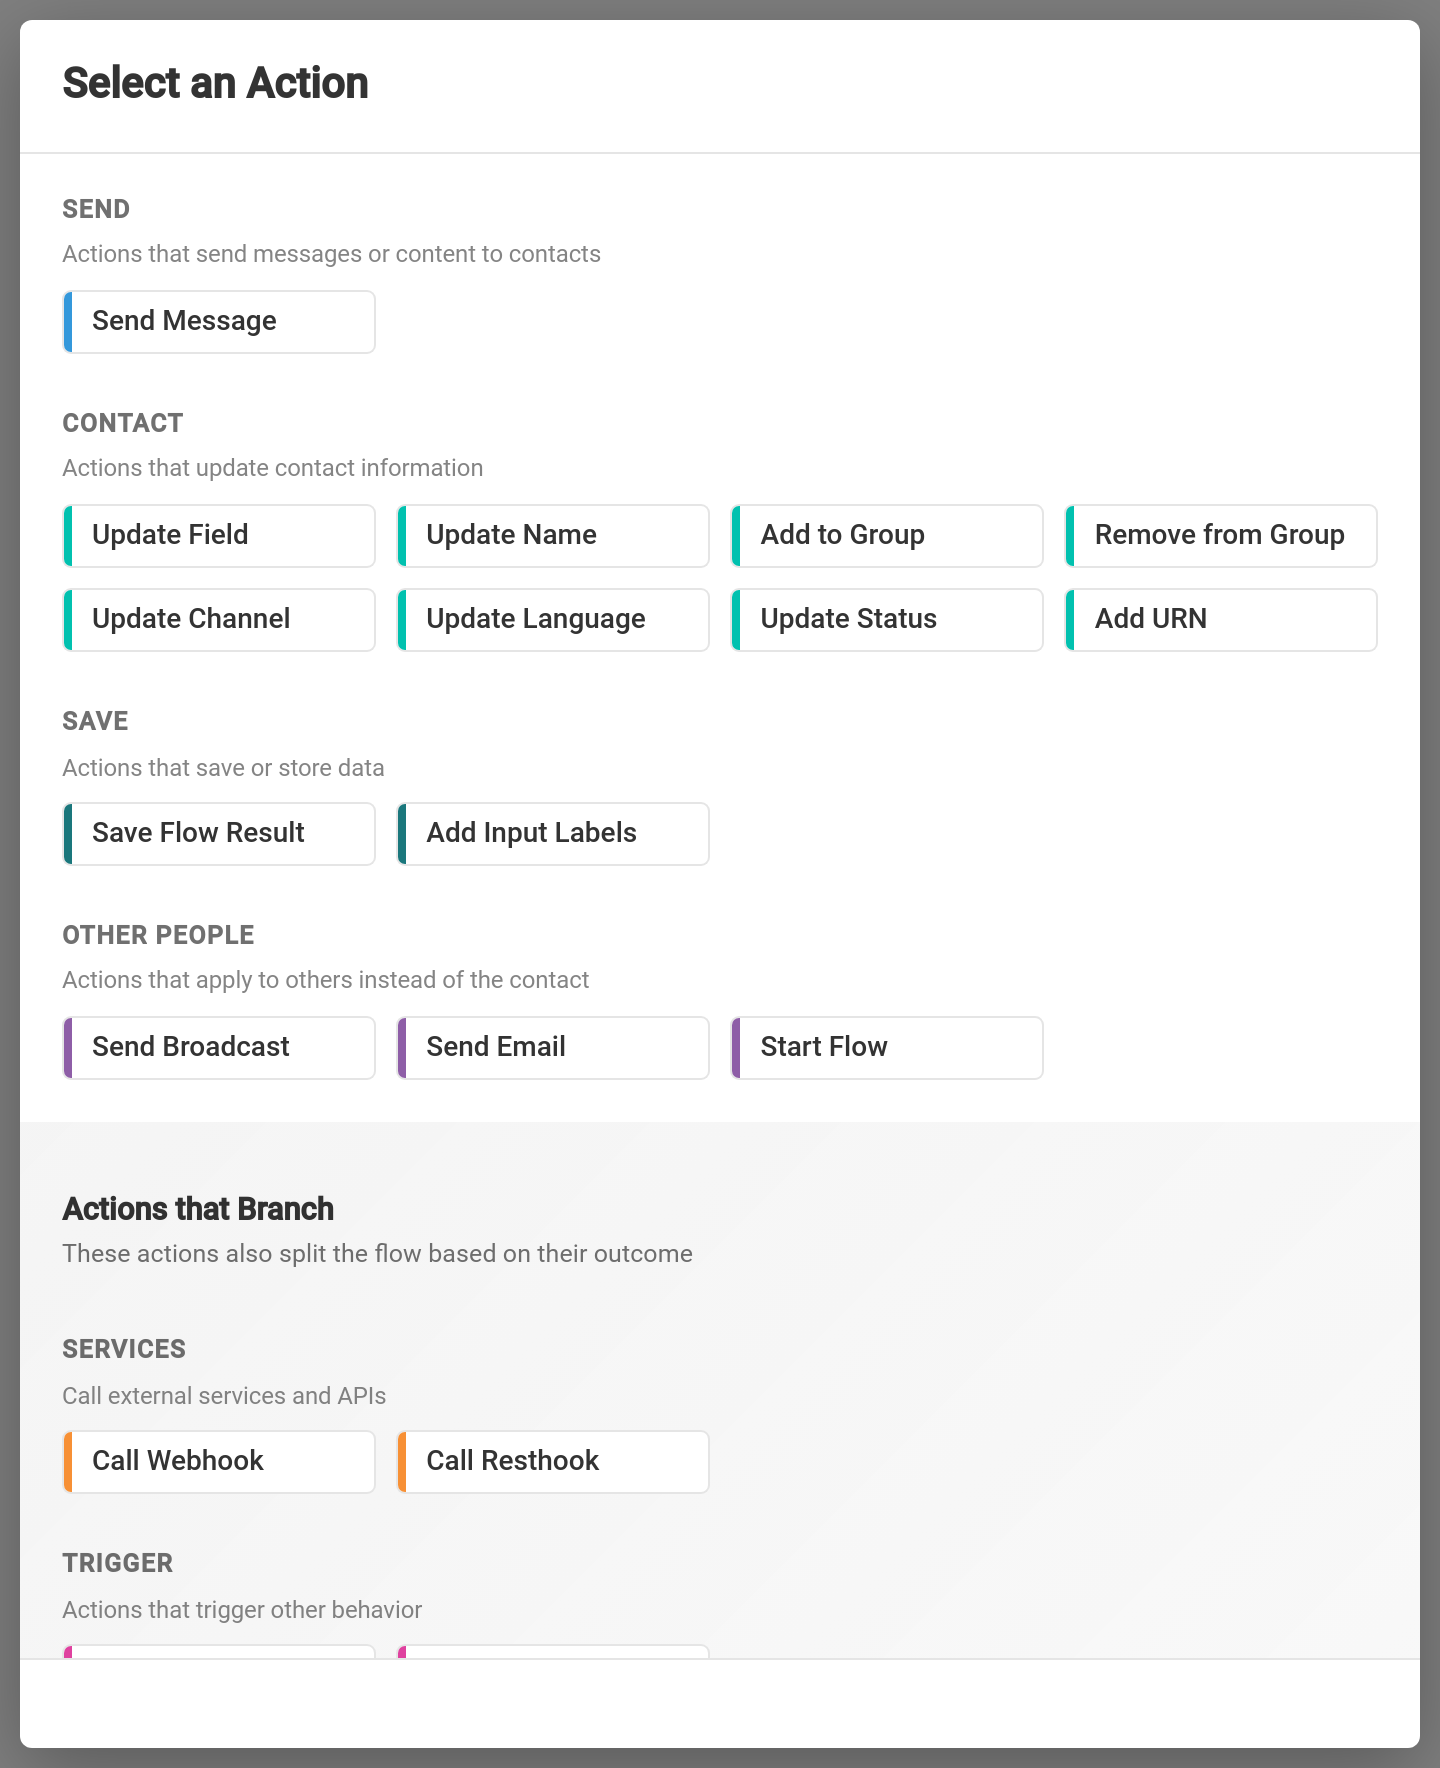
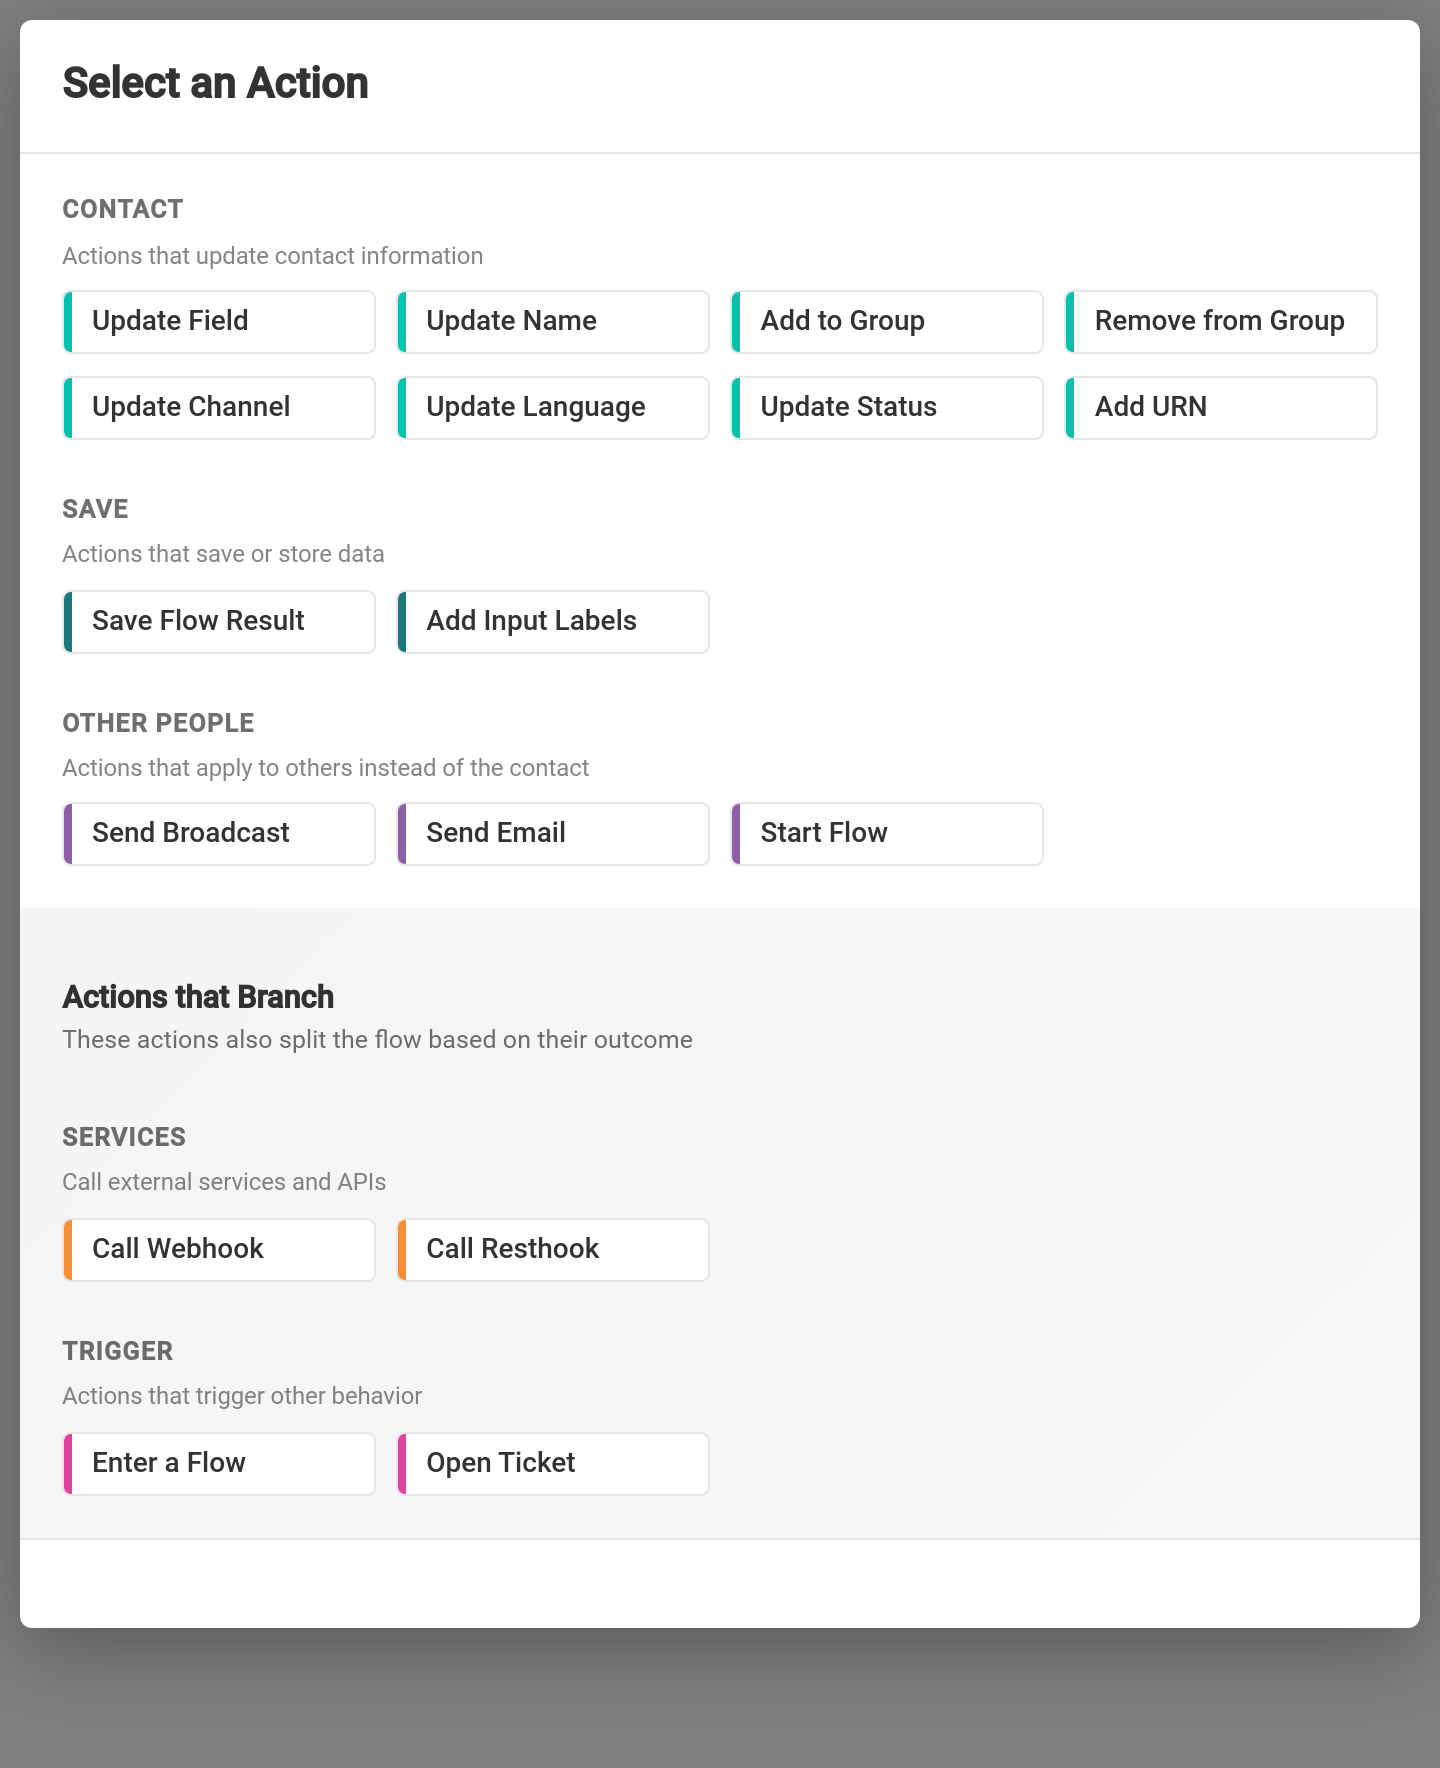
Add Wait for Response to canvas context menu (#851)
* Add Wait for Response to canvas context menu

Adds a "Wait for Response" option to the main canvas context menu,
positioned between Add Action and Add Split. Selecting it opens the
wait_for_response node editor directly, skipping the node type selector
interstitial. The option is only shown for message flows.

diff --git a/src/flow/CanvasMenu.ts b/src/flow/CanvasMenu.ts
@@ -7,7 +7,13 @@ import { CustomEventType } from '../interfaces';
  * Event detail for canvas menu selection
  */
 export interface CanvasMenuSelection {
-  action: 'sticky' | 'action' | 'split' | 'reflow';
+  action:
+    | 'sticky'
+    | 'action'
+    | 'split'
+    | 'send_msg'
+    | 'wait_for_response'
+    | 'reflow';
   position: { x: number; y: number };
 }
 
@@ -50,24 +56,12 @@ export class CanvasMenu extends RapidElement {
 
       .menu-item temba-icon {
         --icon-color: var(--color-text);
-        margin-top: 0.15em;
-      }
-
-      .menu-item-content {
-        display: flex;
-        flex-direction: column;
-        gap: 0.15em;
       }
 
       .menu-item-title {
         font-weight: 500;
         font-size: 1rem;
         color: var(--color-text-dark);
-      }
-
-      .menu-item-description {
-        font-size: 0.85rem;
-        color: var(--color-text);
       }
 
       .divider {
@@ -89,6 +83,9 @@ export class CanvasMenu extends RapidElement {
 
   @property({ type: Boolean })
   public showStickyNote = true;
+
+  @property({ type: Boolean })
+  public showWaitForResponse = true;
 
   @property({ type: Boolean })
   public showReflow = false;
@@ -131,13 +128,15 @@ export class CanvasMenu extends RapidElement {
     y: number,
     clickPosition: { x: number; y: number },
     showStickyNote: boolean = true,
-    showReflow: boolean = false
+    showReflow: boolean = false,
+    showWaitForResponse: boolean = true
   ) {
     this.x = x;
     this.y = y;
     this.clickPosition = clickPosition;
     this.showStickyNote = showStickyNote;
     this.showReflow = showReflow;
+    this.showWaitForResponse = showWaitForResponse;
     this.open = true;
 
     // Adjust position after menu renders to ensure it fits on screen
@@ -185,9 +184,7 @@ export class CanvasMenu extends RapidElement {
     }
   }
 
-  private handleMenuItemClick(
-    action: 'sticky' | 'action' | 'split' | 'reflow'
-  ) {
+  private handleMenuItemClick(action: CanvasMenuSelection['action']) {
     this.fireCustomEvent(CustomEventType.Selection, {
       action,
       position: this.clickPosition
@@ -205,15 +202,30 @@ export class CanvasMenu extends RapidElement {
       <div class="menu" style="left: ${this.x}px; top: ${this.y}px;">
         <div
           class="menu-item"
+          @click=${() => this.handleMenuItemClick('send_msg')}
+        >
+          <temba-icon name="send" size="1.25"></temba-icon>
+          <div class="menu-item-title">Send Message</div>
+        </div>
+
+        ${this.showWaitForResponse
+          ? html`
+              <div
+                class="menu-item"
+                @click=${() => this.handleMenuItemClick('wait_for_response')}
+              >
+                <temba-icon name="message" size="1.25"></temba-icon>
+                <div class="menu-item-title">Wait for Response</div>
+              </div>
+            `
+          : ''}
+
+        <div
+          class="menu-item"
           @click=${() => this.handleMenuItemClick('action')}
         >
           <temba-icon name="action" size="1.25"></temba-icon>
-          <div class="menu-item-content">
-            <div class="menu-item-title">Add Action</div>
-            <div class="menu-item-description">
-              Send messages, update contacts
-            </div>
-          </div>
+          <div class="menu-item-title">Add Action</div>
         </div>
 
         <div
@@ -221,10 +233,7 @@ export class CanvasMenu extends RapidElement {
           @click=${() => this.handleMenuItemClick('split')}
         >
           <temba-icon name="split" size="1.25"></temba-icon>
-          <div class="menu-item-content">
-            <div class="menu-item-title">Add Split</div>
-            <div class="menu-item-description">Branch based on conditions</div>
-          </div>
+          <div class="menu-item-title">Add Split</div>
         </div>
 
         ${this.showStickyNote
@@ -236,12 +245,7 @@ export class CanvasMenu extends RapidElement {
                 @click=${() => this.handleMenuItemClick('sticky')}
               >
                 <temba-icon name="note" size="1.25"></temba-icon>
-                <div class="menu-item-content">
-                  <div class="menu-item-title">Add Sticky Note</div>
-                  <div class="menu-item-description">
-                    Add a note to the canvas
-                  </div>
-                </div>
+                <div class="menu-item-title">Add Sticky Note</div>
               </div>
             `
           : ''}
@@ -254,12 +258,7 @@ export class CanvasMenu extends RapidElement {
                 @click=${() => this.handleMenuItemClick('reflow')}
               >
                 <temba-icon name="flow" size="1.25"></temba-icon>
-                <div class="menu-item-content">
-                  <div class="menu-item-title">Reflow</div>
-                  <div class="menu-item-description">
-                    Auto-arrange nodes in this flow
-                  </div>
-                </div>
+                <div class="menu-item-title">Reflow</div>
               </div>
             `
           : ''}

diff --git a/test/temba-canvas-menu.test.ts b/test/temba-canvas-menu.test.ts
@@ -48,19 +48,21 @@ describe('temba-canvas-menu', () => {
     await assertScreenshot('canvas-menu/open', getClip(menu));
   });
 
-  it('has three menu items', async () => {
+  it('has five menu items', async () => {
     const menu = await createCanvasMenu();
     menu.show(100, 100, { x: 50, y: 50 });
     await menu.updateComplete;
 
     const menuItems = menu.shadowRoot?.querySelectorAll('.menu-item');
-    expect(menuItems?.length).to.equal(3);
+    expect(menuItems?.length).to.equal(5);
 
     // check menu item titles
     const titles = Array.from(menuItems || []).map(
       (item) => item.querySelector('.menu-item-title')?.textContent
     );
     expect(titles).to.deep.equal([
+      'Send Message',
+      'Wait for Response',
       'Add Action',
       'Add Split',
       'Add Sticky Note'
@@ -93,9 +95,9 @@ describe('temba-canvas-menu', () => {
       selectionDetail = event.detail;
     });
 
-    // click on sticky note option (now the third item)
+    // click on sticky note option (now the fifth item)
     const menuItems = menu.shadowRoot?.querySelectorAll('.menu-item');
-    const stickyItem = menuItems?.[2] as HTMLElement;
+    const stickyItem = menuItems?.[4] as HTMLElement;
     stickyItem.click();
     await menu.updateComplete;
 
@@ -113,12 +115,14 @@ describe('temba-canvas-menu', () => {
     await menu.updateComplete;
 
     const menuItems = menu.shadowRoot?.querySelectorAll('.menu-item');
-    expect(menuItems?.length).to.equal(4);
+    expect(menuItems?.length).to.equal(6);
 
     const titles = Array.from(menuItems || []).map(
       (item) => item.querySelector('.menu-item-title')?.textContent
     );
     expect(titles).to.deep.equal([
+      'Send Message',
+      'Wait for Response',
       'Add Action',
       'Add Split',
       'Add Sticky Note',
@@ -137,7 +141,7 @@ describe('temba-canvas-menu', () => {
     });
 
     const menuItems = menu.shadowRoot?.querySelectorAll('.menu-item');
-    const reflowItem = menuItems?.[3] as HTMLElement;
+    const reflowItem = menuItems?.[5] as HTMLElement;
     reflowItem.click();
     await menu.updateComplete;
 
@@ -154,7 +158,7 @@ describe('temba-canvas-menu', () => {
     await menu.updateComplete;
 
     const menuItems = menu.shadowRoot?.querySelectorAll('.menu-item');
-    expect(menuItems?.length).to.equal(3);
+    expect(menuItems?.length).to.equal(5);
 
     const titles = Array.from(menuItems || []).map(
       (item) => item.querySelector('.menu-item-title')?.textContent
@@ -200,8 +204,8 @@ describe('temba-canvas-menu', () => {
     });
 
     const menuItems = menu.shadowRoot?.querySelectorAll('.menu-item');
-    const actionItem = menuItems?.[0] as HTMLElement;
-    actionItem.click();
+    const sendMsgItem = menuItems?.[0] as HTMLElement;
+    sendMsgItem.click();
     await menu.updateComplete;
 
     expect(selectionFired).to.be.true;

diff --git a/src/flow/Editor.ts b/src/flow/Editor.ts
@@ -1188,8 +1188,10 @@ export class Editor extends RapidElement {
               x: snappedPosition.left,
               y: snappedPosition.top
             },
-            false
-          ); // Don't show sticky note option for connection drops
+            false, // Don't show sticky note option for connection drops
+            false,
+            this.flowType === 'message'
+          );
         }
       }
 
@@ -2803,7 +2805,8 @@ export class Editor extends RapidElement {
           y: snappedTop
         },
         true,
-        hasNodes
+        hasNodes,
+        this.flowType === 'message'
       );
     }
   }
@@ -2826,7 +2829,14 @@ export class Editor extends RapidElement {
       const menuWidth = 265;
       const menuX = rect.left + rect.width / 2 - menuWidth / 2;
       const menuY = rect.bottom + 8;
-      canvasMenu.show(menuX, menuY, { x: nodeLeft, y: nodeTop }, false);
+      canvasMenu.show(
+        menuX,
+        menuY,
+        { x: nodeLeft, y: nodeTop },
+        false,
+        false,
+        this.flowType === 'message'
+      );
     }
   }
 
@@ -2852,6 +2862,19 @@ export class Editor extends RapidElement {
       this.connectionSourceX = null;
       this.connectionSourceY = null;
       this.dragFromNodeId = null;
+    } else if (
+      selection.action === 'send_msg' ||
+      selection.action === 'wait_for_response'
+    ) {
+      // Go directly to the node editor (skip node type selector)
+      this.handleNodeTypeSelection(
+        new CustomEvent(CustomEventType.Selection, {
+          detail: {
+            nodeType: selection.action,
+            position: selection.position
+          } as NodeTypeSelection
+        })
+      );
     } else {
       // Show node type selector
       const selector = this.querySelector(

diff --git a/test/temba-node-type-selector.test.ts b/test/temba-node-type-selector.test.ts
@@ -186,7 +186,7 @@ describe('temba-node-type-selector', () => {
     expect(titles).to.not.include('Play Recording');
   });
 
-  it('filters splits by flow type - message flow should show wait for response', async () => {
+  it('filters splits by flow type - message flow should not show wait for response in split dialog', async () => {
     const selector = await createSelector();
     selector.flowType = 'message';
     await selector.updateComplete;
@@ -199,8 +199,8 @@ describe('temba-node-type-selector', () => {
       item.textContent?.trim()
     );
 
-    // message flow should have Wait for Response
-    expect(titles).to.include('Wait for Response');
+    // Wait for Response is now promoted to the context menu, not in split dialog
+    expect(titles).to.not.include('Wait for Response');
   });
 
   it('filters splits by flow type - voice flow should not show wait for response', async () => {

diff --git a/src/flow/NodeTypeSelector.ts b/src/flow/NodeTypeSelector.ts
@@ -451,12 +451,14 @@ export class NodeTypeSelector extends RapidElement {
         .filter(([type, config]) => {
           // exclude execute_actions (it's the default action-only node)
           // exclude nodes that have showAsAction=true (they appear in action mode)
+          // exclude nodes that have hideFromSplits=true (promoted to context menu)
           // exclude aliases (type won't match config.type for aliases)
           return (
             type !== 'execute_actions' &&
             type === config.type &&
             config.name &&
             !config.showAsAction &&
+            !config.hideFromSplits &&
             this.isConfigAvailable(config)
           );
         })

diff --git a/src/flow/types.ts b/src/flow/types.ts
@@ -104,6 +104,7 @@ export interface NodeConfig extends FormConfig {
   dialogSize?: 'small' | 'medium' | 'large' | 'xlarge';
   action?: ActionConfig;
   showAsAction?: boolean; // if true, show in action dialog instead of splits (default: false - nodes show in splits)
+  hideFromSplits?: boolean; // if true, don't show in split dialog (e.g. promoted to context menu)
   flowTypes?: FlowType[]; // which flow types this node is available for (defaults to all if not specified)
   features?: Feature[]; // which features are required for this node (all must be present)
   router?: {

diff --git a/src/flow/actions/send_msg.ts b/src/flow/actions/send_msg.ts
@@ -15,6 +15,7 @@ export const send_msg: ActionConfig = {
   name: 'Send Message',
   group: ACTION_GROUPS.send,
   flowTypes: [FlowTypes.VOICE, FlowTypes.MESSAGE, FlowTypes.BACKGROUND],
+  hideFromActions: true,
   render: (_node: Node, action: SendMsg) => {
     const text = action.text.replace(/\n/g, '<br>');
     return html`

diff --git a/src/flow/nodes/wait_for_response.ts b/src/flow/nodes/wait_for_response.ts
@@ -82,6 +82,7 @@ export const wait_for_response: NodeConfig = {
   name: 'Wait for Response',
   group: SPLIT_GROUPS.wait,
   flowTypes: [FlowTypes.MESSAGE],
+  hideFromSplits: true,
   dialogSize: 'large',
   form: {
     rules: createRulesArrayConfig(
